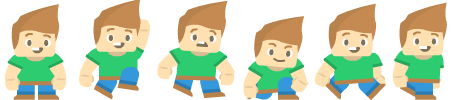
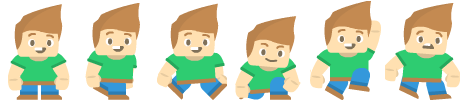
[TASK-6] - add simple player animation

diff --git a/src/states/Game.js b/src/states/Game.js
@@ -22,7 +22,8 @@ export default class extends Phaser.State {
       asset: 'player',
       frame: 0
     });
-    this.player.animations.add('walking', [0, 4, 5, 0], 6, true);
+    this.player.animations.add('walking', [0, 1, 2, 0], 12, false);
+    this.player.animations.add('jump', [0, 4, 0], 1, false);
     this.game.add.existing(this.player);
     this.player.customParams = {};
     this.game.physics.arcade.enable(this.player);
@@ -37,15 +38,32 @@ export default class extends Phaser.State {
 
     if (this.cursors.left.isDown || this.player.customParams.isMovingLeft) {
       this.player.body.velocity.x = -config.runningSpeed;
-      this.player.play('walking');
+      this.player.scale.setTo(-1, 1);
+      if (this.player.body.touching.down) this.player.play('walking');
+      if (!this.player.body.touching.down) this.playJumpAnimation();
     } else if (this.cursors.right.isDown || this.player.customParams.isMovingRight) {
       this.player.body.velocity.x = config.runningSpeed;
-      this.player.play('walking');
+      this.player.scale.setTo(1, 1);
+      if (this.player.body.touching.down) this.player.play('walking');
+      if (!this.player.body.touching.down) this.playJumpAnimation();
+    } else if (this.cursors.up.isDown) {
+      this.playJumpAnimation();
+    } else if (this.cursors.down.isDown) {
+      this.player.animations.stop();
+      this.player.frame = 3;
+    } else {
+      this.player.animations.stop();
+      this.player.frame = 0;
     }
 
     if ((this.cursors.up.isDown || this.player.customParams.mustJump) && this.player.body.touching.down) {
       this.player.body.velocity.y = -config.jumpingSpeed;
       this.player.customParams.mustJump = false;
     }
+  }
+
+  playJumpAnimation() {
+    this.player.animations.stop();
+    this.player.frame = 4;
   }
 }

diff --git a/src/states/Splash.js b/src/states/Splash.js
@@ -6,7 +6,7 @@ export default class extends Phaser.State {
   preload() {
     this.load.image('mushroom', 'assets/images/mushroom2.png');
     this.load.image('ground', 'assets/images/ground.png');
-    this.load.spritesheet('player', 'assets/images/player.png', 62, 100, 60, 0, 6);
+    this.load.spritesheet('player', 'assets/images/player.png', 76, 100, 60, 1, 0);
   }
 
   create() {
